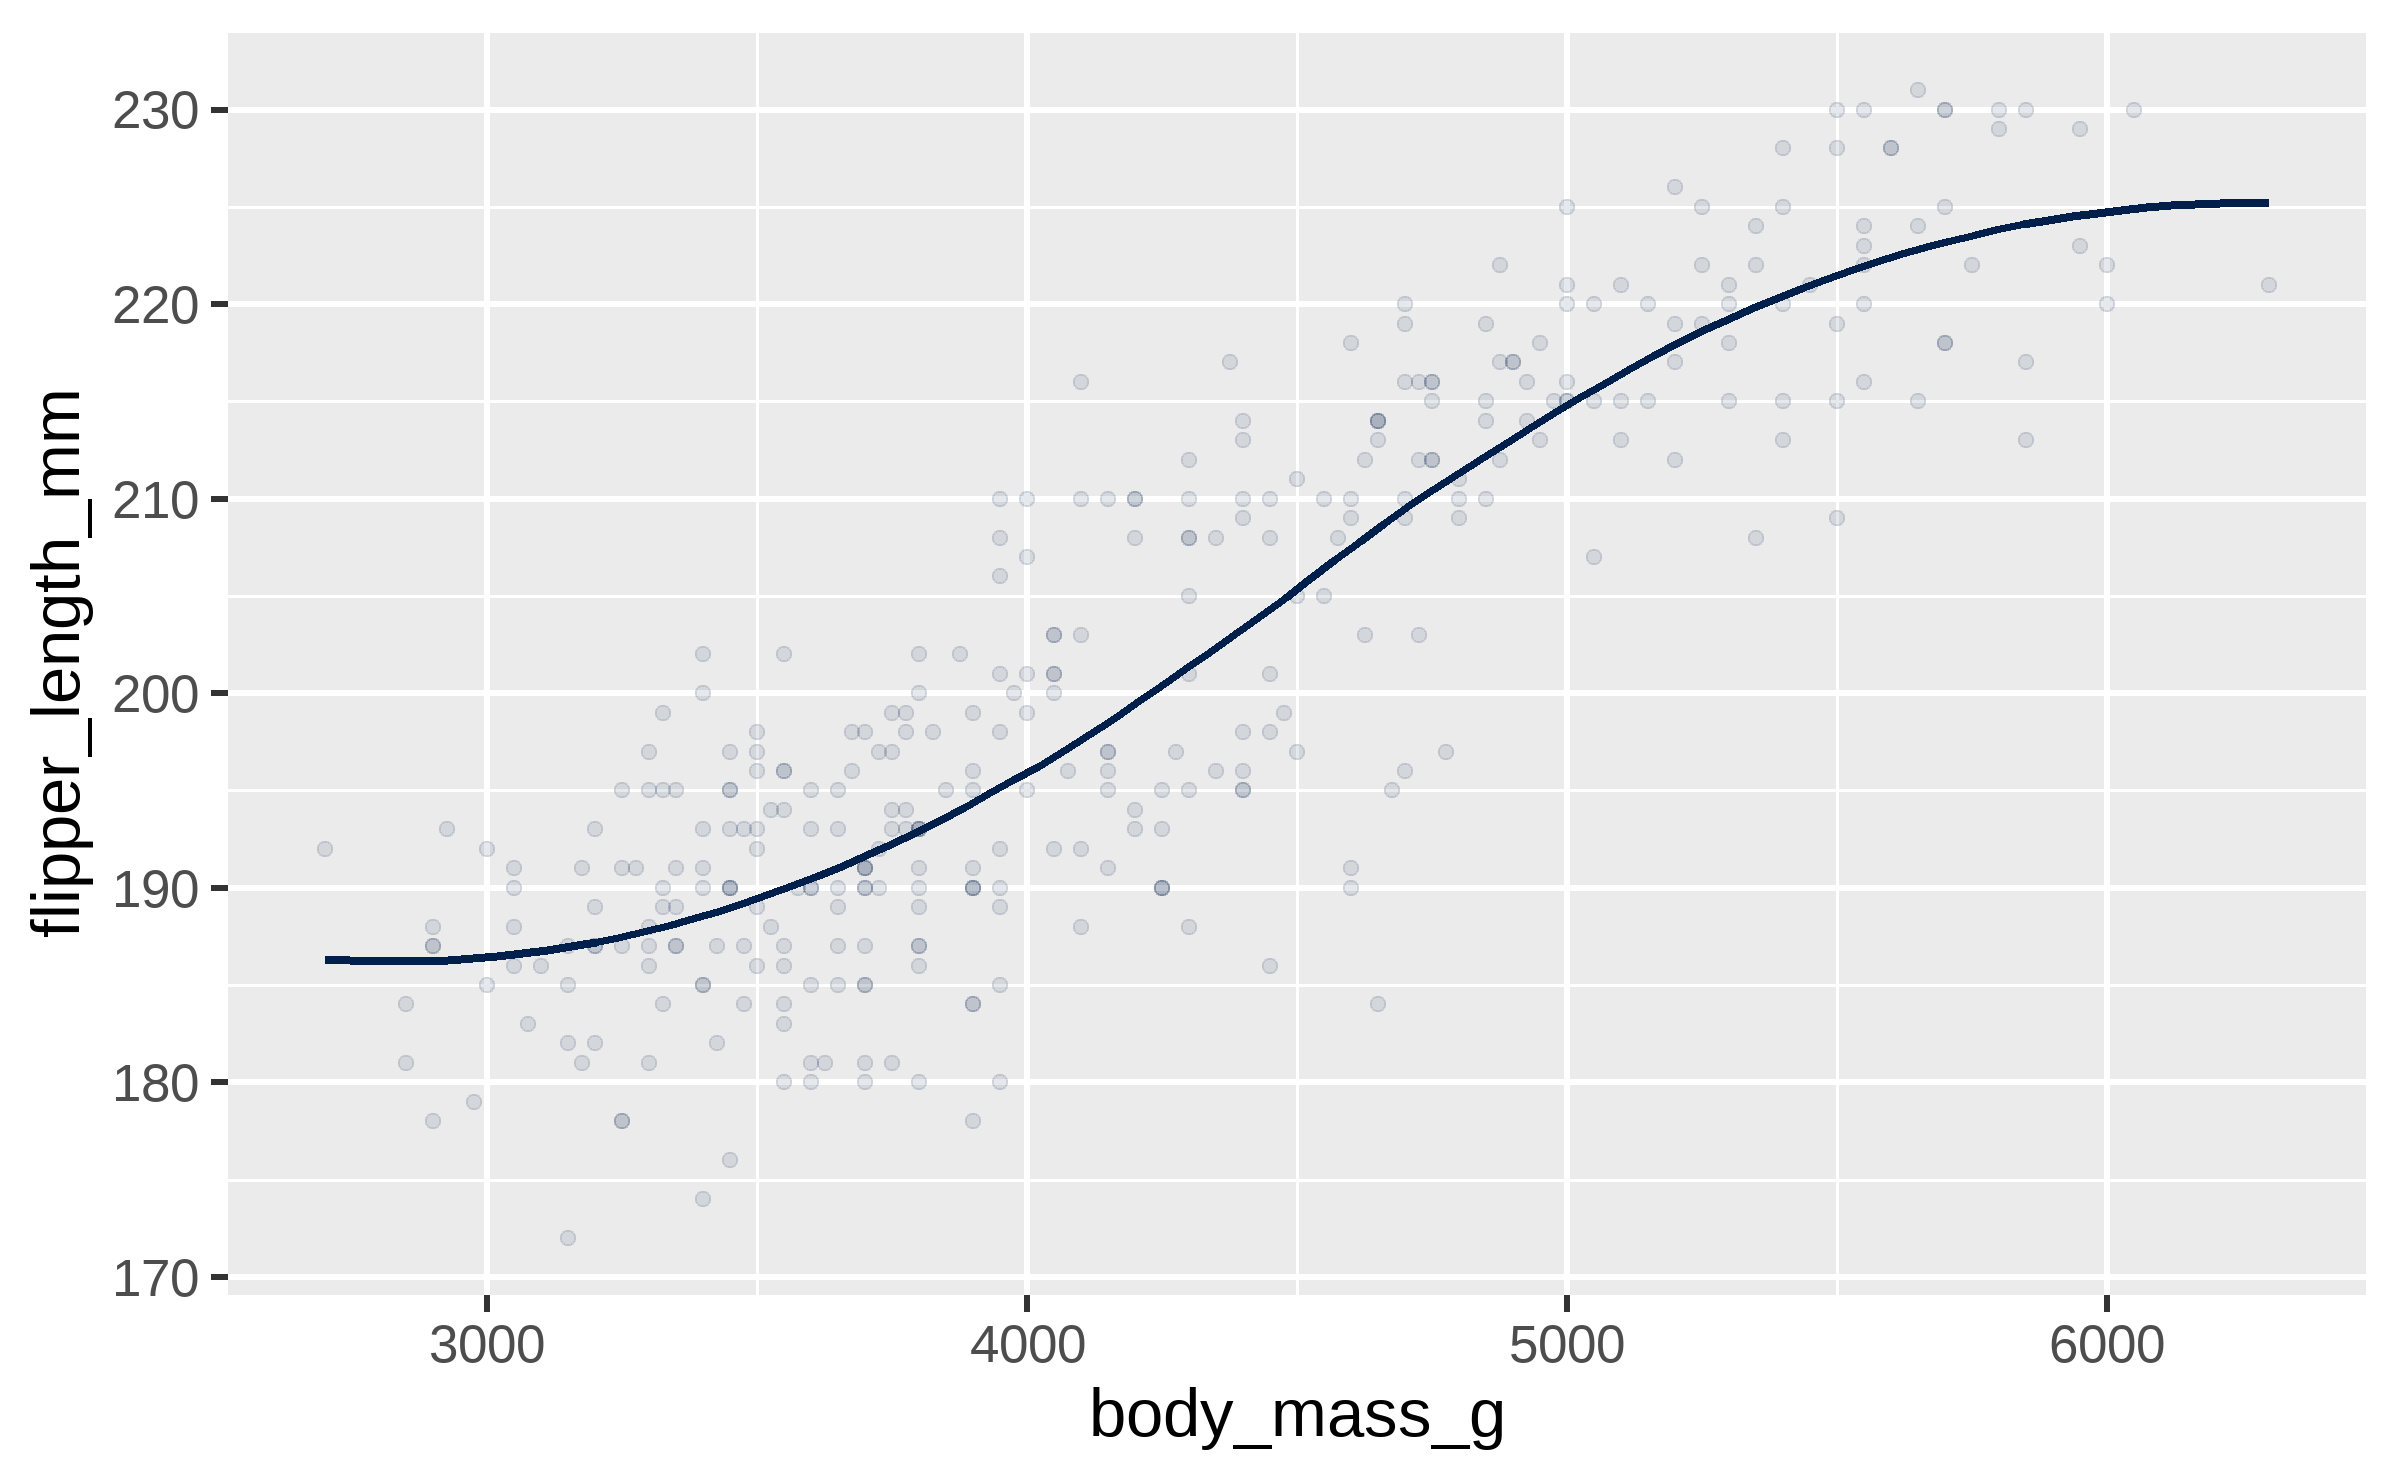
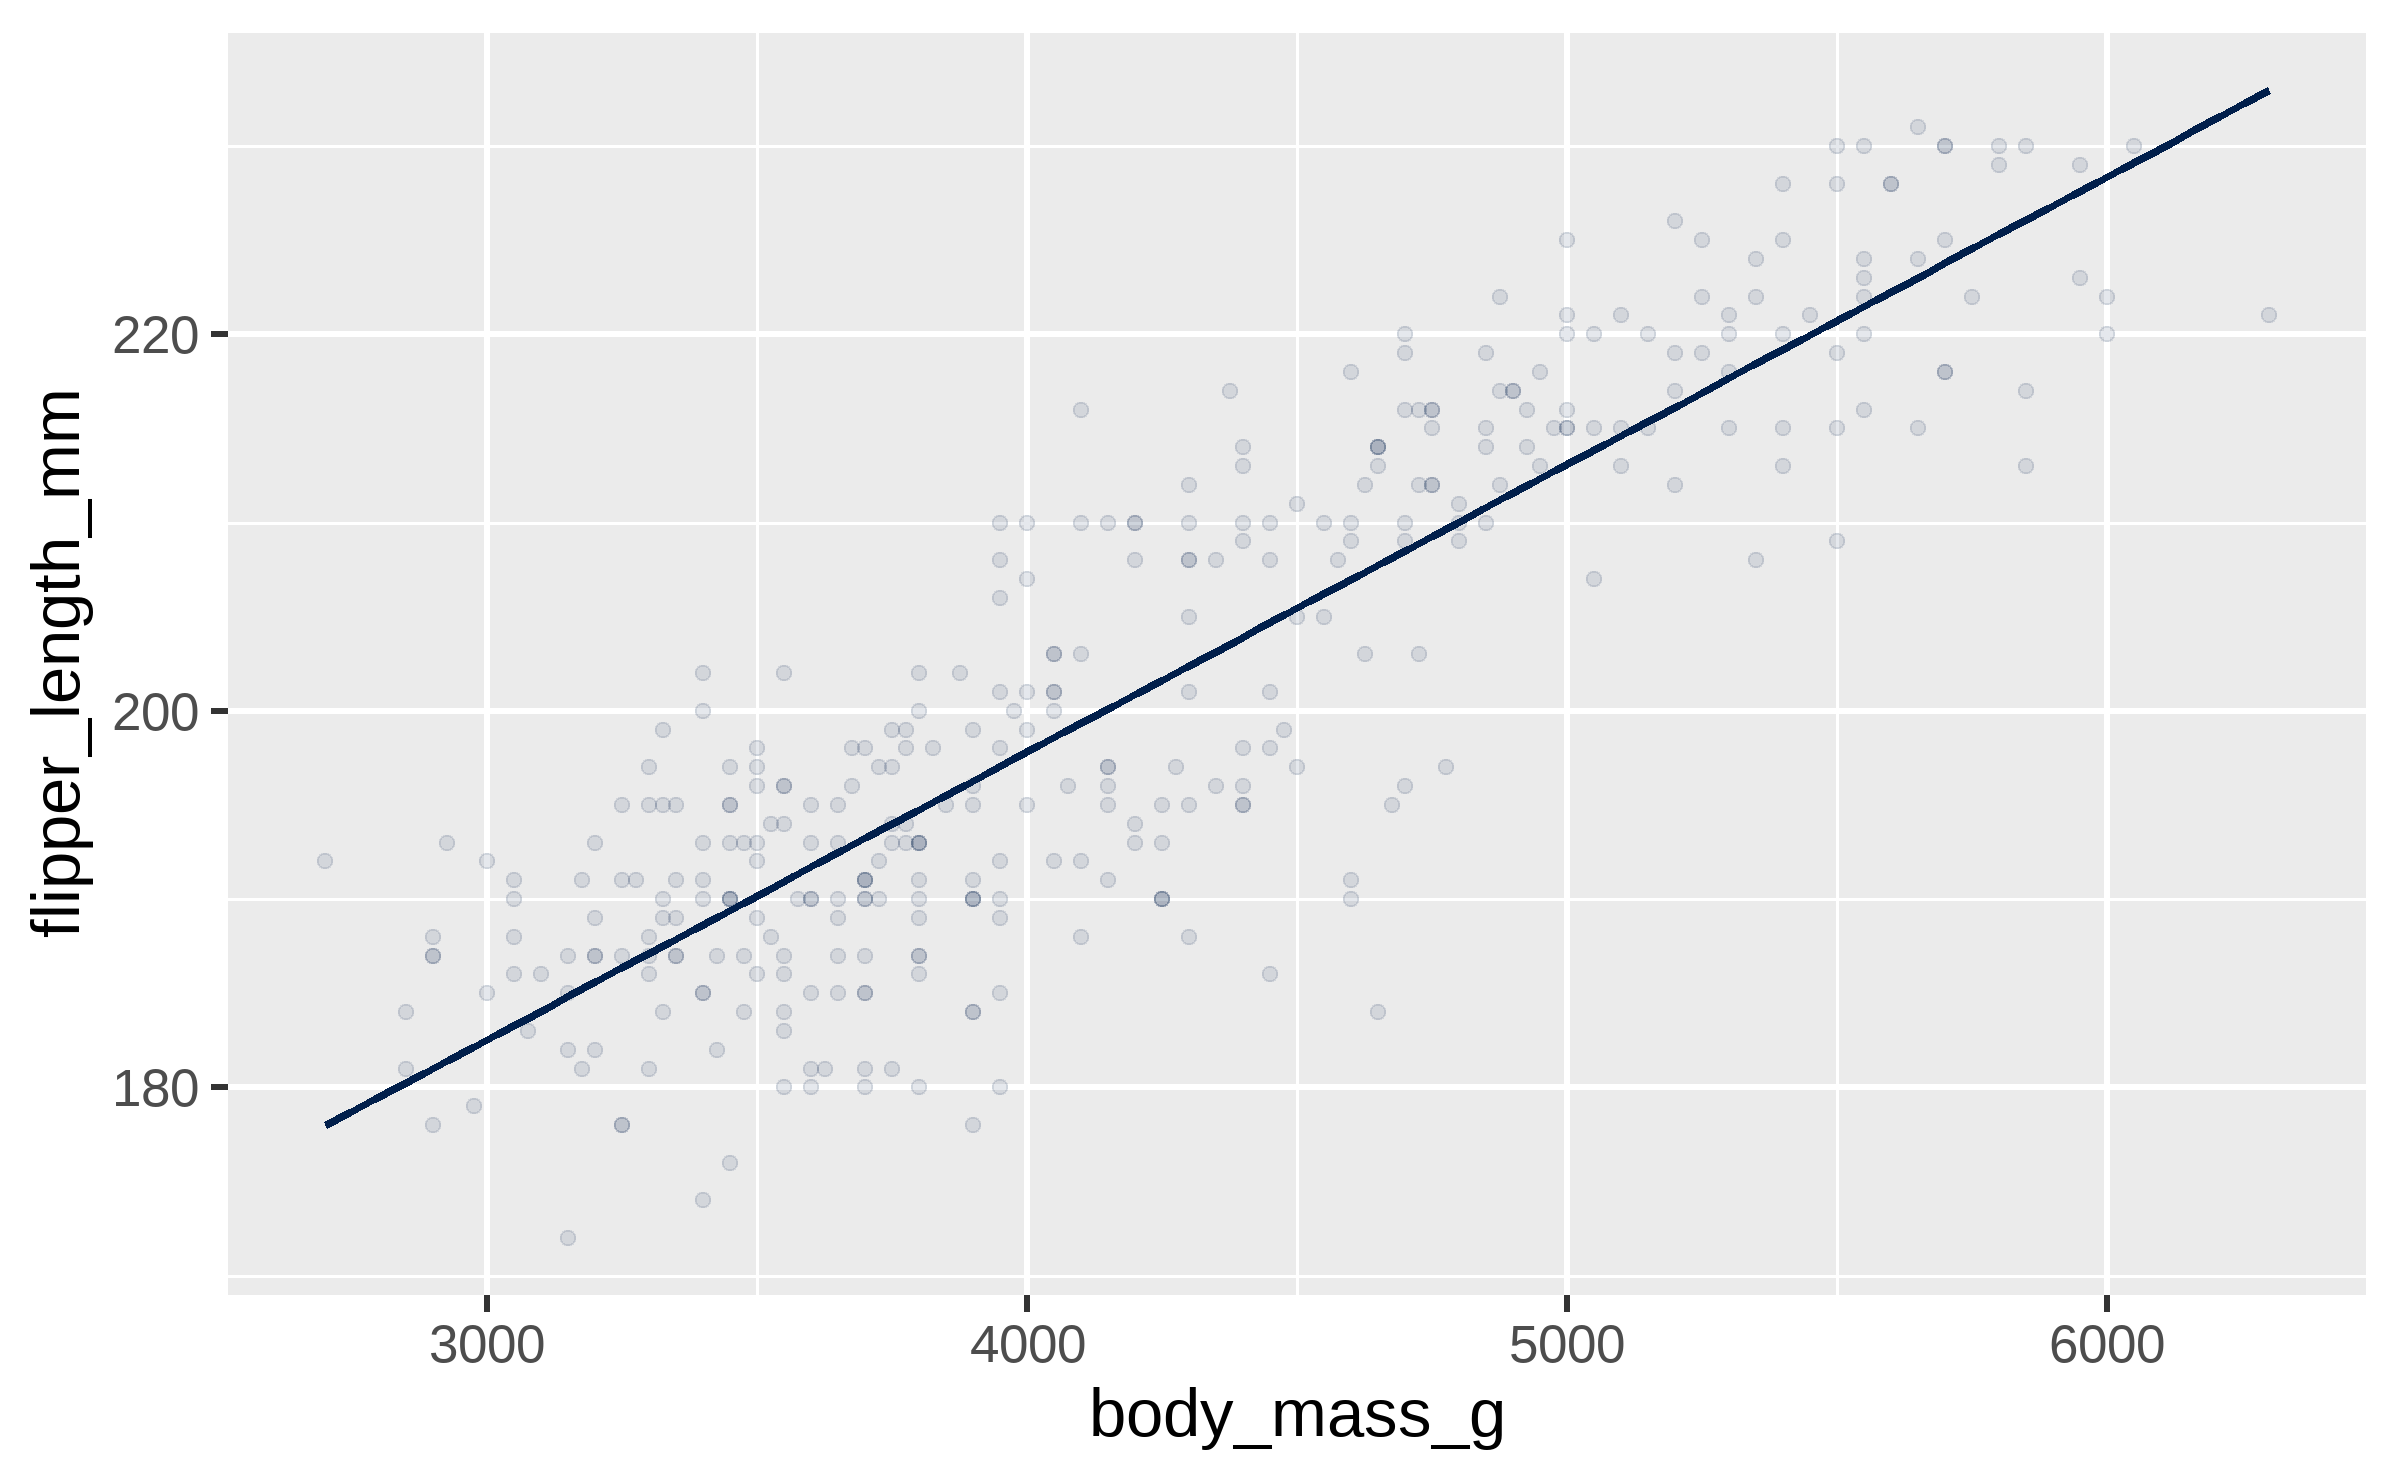
eda slides updates

diff --git a/static/slides/exploratory-data-analysis/index.html b/static/slides/exploratory-data-analysis/index.html
@@ -29,29 +29,26 @@ class: center, middle, inverse, title-slide
 
 class: inverse, middle
 
-# Exploratory Data Analysis
+# Exploratory Data Analysis (EDA)
 
 ---
 
 ## Definition of Exploratory Data Analysis (EDA)
 
-**All set of initial investigations in order to get a sense of your data and generate questions**: 
+#### All set of INITIAL investigations in order to get a sense of your data and generate questions: 
+
 + discovering patterns 
 + spot anomalies (outliers)
-+ formulate and refine questions 
++ generate and refine questions 
 + check initial hypotheses before formally testing them
 
---
-
-Exploratory Data Analysis (EDA):
-* relies on **visualizations** and frequently goes together with **descriptive statistics**
-* is different from **Explanatory or Confirmatory Data Analysis** 
+EDA is different from **Explanatory or Confirmatory Data Analysis**
 
 ---
 
-## Exploratory Data Analysis as iterative cycle
+## EDA as iterative and creative process
 
-Chapter 7 of R for Data Science defines EDA as an iterative process:
+Chapter 7 of "R for Data Science" defines EDA as an **ITERATIVE process**:
 
 1. Generate questions about your data
 1. Search for answers in the data by transforming, visualizing, and modeling the data
@@ -60,25 +57,26 @@ Chapter 7 of R for Data Science defines EDA as an iterative process:
 
 --
 
-EDA is a **creative process**: it is not an exact science. It requires knowledge of your data and a lot of time. At the most basic level, it involves answering two questions:
+EDA is a **CREATIVE process**: it is not an exact science. It requires knowledge of your data and time. At the most basic level, it involves answering two questions:
 
-1. What type of **variation** occurs within my variables?
-2. What type of **covariation** occurs between my variables?
+1. What type of variation occurs within my variables?
+2. What type of covariation occurs between my variables?
 
 
 ---
 
 ## How to perform Exploratory Data Analysis?
 
+
 EDA relies on:
+- **visualizations** such box plots, histograms, bar charts, scatter plots, etc. 
 - **descriptive stats** such as measures of central tendency (mean, mode, median) and of dispersion (variance, standard deviation)
-- **visualization tools** such box plots, histograms, bar charts, and scatter plots 
 
 --
 
 We focus on visualizations, and especially on:
-- *Variation* that is how values within a single variable vary (univariate analysis)
-- *Covariation* that how values of two variables co-vary (bivariate analysis)
+- Variation: how values within a single variable vary (univariate analysis)
+- Covariation: how values of two variables co-vary (bivariate analysis)
 
 --
 
@@ -92,7 +90,7 @@ In Exploratory Analysis you might generate 100 or even 1000 graphs, but not all 
 
 class: inverse, middle
 
-# Exploratory VS Confirmatory Data Analysis
+# Exploratory and Confirmatory Data Analysis
 
 ---
 
@@ -219,7 +217,7 @@ ggplot(
 
 
 
-Simple exploratory plot. What does this graph tell us?
+Exploratory plot. What does this graph tell us? Pros and cons?
 
 --
 
@@ -289,7 +287,8 @@ ggplot(
   )
 ) +
   geom_point(alpha = .1) +
-* geom_smooth(se = FALSE)
+* geom_smooth(method = "lm",
+*             se = FALSE)
 ```
 ]
  
@@ -312,7 +311,8 @@ ggplot(
   )
 ) +
   geom_point(alpha = .1) +
-  geom_smooth(se = FALSE) +
+  geom_smooth(method = "lm",
+              se = FALSE) +
 * labs(
 *   title = "Relationship between body mass and\nflipper length of a penguin",
 *   subtitle = "Sample of 344 penguins",
@@ -341,7 +341,8 @@ ggplot(
   )
 ) +
   geom_point(alpha = .1) +
-  geom_smooth(se = FALSE) +
+  geom_smooth(method = "lm",
+              se = FALSE) +
   labs(
     title = "Relationship between body mass and\nflipper length of a penguin",
     subtitle = "Sample of 344 penguins",
@@ -388,7 +389,17 @@ ggplot(
 
 
 
-Plot for confirmatory purposes. It requires more code. Good for a final report, class presentation, paper, etc. but not necessary for exploratory purposes.
+---
+
+### Bottom line:
+
+The initial plot was created for exploratory purposes. We might generate several of them to explore the data. 
+
+The last plot was created for confirmatory purposes. We start from an exploratory plot and refine it with more code. Use it for a final report, class presentation, paper, final submission of HW2 for this course, etc.
+
+--
+
+Note: difference between `labs()` and `geom_text()` https://ggplot2-book.org/annotations.html
 
 
 
@@ -399,7 +410,6 @@ class: inverse, middle
 
 # EDA with the `scorecard` dataset
 
-### Data on every four-year college university in the U.S.
 The Department of Education collects annual statistics on colleges and universities in the United States. We are going to look at a subset of this data from 2018-19.
 
 ---
@@ -408,6 +418,7 @@ The Department of Education collects annual statistics on colleges and universit
 
 
 ```r
+library(tidyverse)
 library(rcis)
 data("scorecard")
 glimpse(scorecard)
@@ -434,7 +445,7 @@ glimpse(scorecard)
 
 ---
 
-## Types of visualization we can perform:
+## Types of visualization we can perform
 
 #### *Variation* -- how values within a single variable vary (univariate analysis)
   
@@ -531,7 +542,7 @@ What does this histogram tell us?
 
 --
 
-Follow up questions we might ask: Why do we have these different picks? Who are the outliers?
+Follow up questions we might ask: Why do we have these different picks? Are there outliers?
 
 ---
 
@@ -622,7 +633,9 @@ ggplot(
 
 
 
-Bins: each bar is a bin and represents one interval or set of data; `bins` control the size of each bar. In these examples, we divided the data into 50, 30 (default), or 10 equally sized bars.
+Bins: each bar is a bin and represents one interval or set of data. In these examples, we divided the data into 50, 30 (default), or 10 `bins` or equally sized bars. 
+
+Instead than `bins` you can also use `binwidth` (see [here](https://r-charts.com/distribution/histogram-binwidth-ggplot2/))
 
 ---
 
@@ -701,7 +714,7 @@ BAR CHART: for **categorical variables** (here type). It takes each category of 
 
 
 
-The default stats for `geom_bar()` is `count`. See [documentation](https://ggplot2.tidyverse.org/reference/geom_bar.html) for more info.
+The default stats for `geom_bar()` is `count`. See [documentation](https://ggplot2.tidyverse.org/reference/geom_bar.html) for more.
 
 It means that under the hood `geom_bar()` performs the equivalent of the following:
 
@@ -720,11 +733,11 @@ scorecard %&gt;%
 ## 3 Private, for-profit    86
 ```
 
-Unless we explicitly tell `geom_bar()` not to do so with `geom_bar(stats = "identity")`
+Unless we explicitly tell `geom_bar()` not to do so by specifying `geom_bar(stats = "identity")`
 
 ---
 
-## Reorder factor levels in a bar chart
+## Reorder bar chart levels
 
 .panelset[
 .panel[.panel-name[Not Ordered]
@@ -743,9 +756,10 @@ Unless we explicitly tell `geom_bar()` not to do so with `geom_bar(stats = "iden
 
 ---
 
-## Reorder factor levels in a bar chart
+## Reorder bar chart levels
 
 The most straightforward approach to reorder the levels of a categorical variables is with dplyr and ggplot combined:
+
 
 ```
 # calculate count for variable of interest and save in new dataframe
@@ -762,7 +776,7 @@ ggplot(count_type,
 --
 
 ```
-# same results in one step
+# another way to code this
 scorecard %&gt;%
   count(type) %&gt;%
   ggplot(mapping = aes(x = reorder(type, desc(n)), 
@@ -773,7 +787,7 @@ scorecard %&gt;%
 
 ---
 
-## Reorder factor levels in a bar chart
+## Reorder bar chart levels
 
 [`fct_relevel()`](https://forcats.tidyverse.org/reference/fct_relevel.html): allows to reorder factor levels by hand
 
@@ -804,6 +818,8 @@ scorecard %&gt;%
 See the Visualization cheat sheet! 
 
 Help &gt; Cheat Sheets &gt; Data Visualization with ggplot2
+
+Note there are several **cheat sheets** for tidyverse and R: https://posit.co/resources/cheatsheets/
 
 ---
 
@@ -997,9 +1013,9 @@ What does this scatterplot tell us?
 
 &lt;!--
 
-As the advertised price increases, the net cost also increases though with significant variation. Some schools have a much lower net cost than their advertised price.
+As the advertised price increases, the net cost also increases though with significant variations. Some schools have a much lower net cost than their advertised price.
 
-No clear alignment on diagonal, net costs tend to be lower than adv costs for several schools, especially as the adv costs increase; in most universities the average student pay less than the adv costs. It is a 2d plot bcs we are mapping two variables: one on the y and one on the x.
+No clear alignment on diagonal, net costs tend to be lower than adv costs for several schools, especially as the adv costs increase; in most universities the average student pay less than the adv costs. Notice this is a 2d plot bcs we are mapping two variables: one on the y and one on the x.
 
 Link to next slide: for histogram does not make sense to map a second variable on the y, beside count/frequency bcs with a histogram see the total distribution (vs box plot in which you see summary stats of the distribution). 
 --&gt;
@@ -1075,9 +1091,9 @@ ggplot(
 
 
 
-Multiple windows plot - HISTOGRAM WITH FACETS: looks at **categorical variables**. 
+HISTOGRAM WITH FACETS: looks at the distribution of a continuous variable (here cost) for several categories (here types of school). 
 
-On the y axis is frequency count (calculated from the x). With histograms we cannot map a second variable on the y, but we can use facets to compare the distribution of each college type. Compare with box plot.
+On the y axis is frequency count for each categorical variable. With histograms we cannot map a second variable, but we can use facets to compare the distribution of each college type. Compare this with box plot.
 
 ---
 
@@ -1156,7 +1172,7 @@ ggplot(
 
 
 
-Multiple windows plot - SCATTERPLOT WITH FACETS: looks at **continuous variables** (here cost and netcost) and plot each in a separate panel with same scale range on the x and y.
+SCATTERPLOT WITH FACETS: looks at two  **continuous variables** (here cost and netcost) for several categories (here types of school), and plot each in a separate panel with same scale range on the x and y.
 
 ---
 
@@ -1236,9 +1252,9 @@ ggplot(
 
 
 
-Additional info: rather than using facets to sort each distribution, we could use the color aesthetic to automatically incorporate the `type` info into the same visualization.
+Rather than using facets (for the school type), we could use the color aesthetic to automatically incorporate the `type` info into the same visualization.
 
-We can also add a fourth variable such as `depth` and render it through the size aesthetic. However, does adding `depth` make the graph more informative? 
+We can also add a fourth variable such as `depth` and render it through the size aesthetic. But does adding `depth` make the graph more informative? 
 
 
 ---
@@ -1249,7 +1265,7 @@ class: inverse, middle
 
 ---
 
-Categorical variables, also called discrete variables, are variables that have a fixed set of possible values. R uses **factors** to work these variables.
+Categorical variables, also called discrete variables: variables that have a fixed set of possible values. R uses **factors** to work with these variables.
 
 [**Chapter 15 of R for Data Science**](https://r4ds.had.co.nz/factors.html) goes in-depth on creating and modifying factors: 
 
@@ -1260,7 +1276,6 @@ month_string &lt;- c(
   "Jul", "Aug", "Sep", "Oct", "Nov", "Dec"
 )
 month_string
-typeof(month_string)  # character
 class(month_string)   # character
 ```
 
@@ -1268,12 +1283,10 @@ class(month_string)   # character
 ```r
 month_factor &lt;- factor(month_string, levels = month_string)
 month_factor
-typeof(month_factor)  # integer
 class(month_factor)   # factor
 ```
 
-* `class`: attribute of the object, regardless of R internal storage
-* `typeof`: R internal storage of the object
+Notice `class` is the attribute of the object (vs `typeof`: R internal storage of the object)
 
 ---
 
@@ -1281,6 +1294,7 @@ class: inverse, middle
 
 # Practice exploring data
 
+Download today's class material from the website 
 ---
 
 ## Acknowledgments 
